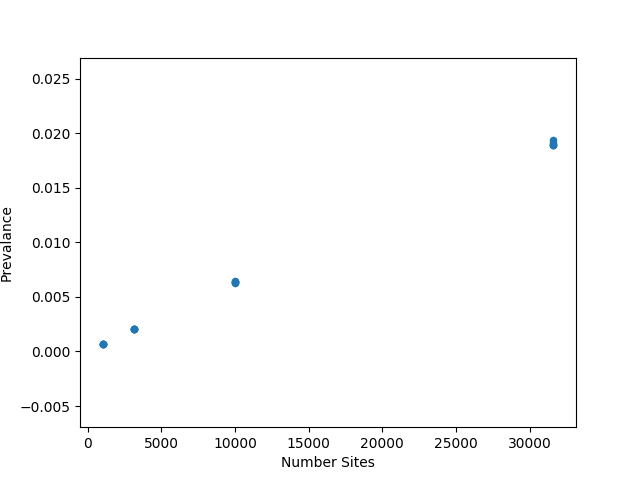
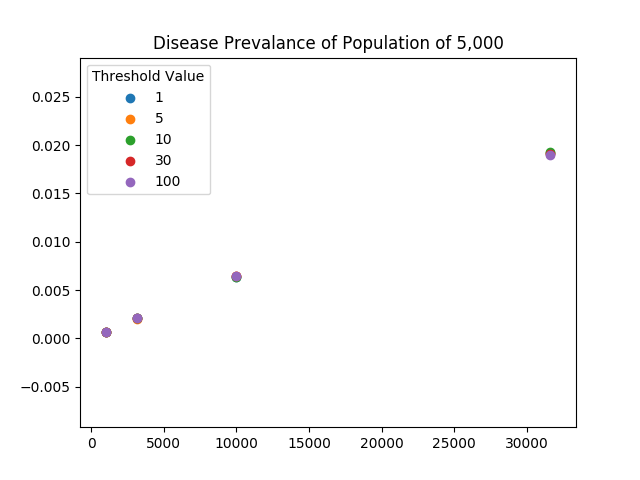
updates

diff --git a/lower_threshold_project/pop_5000/test.py b/lower_threshold_project/pop_5000/test.py
@@ -2,8 +2,33 @@ import pandas as pd
 import matplotlib.pyplot as plt
 
 df = pd.read_csv("summary.csv", sep=",", header=0, index_col = 0)
-groups = df.groupby("Threshold")
+groups = df.sort_values(by=['Number Sites'], ascending=False).groupby("Threshold")
+markers = ["o", "v", "*", "p"]
+colors = ["red", "blue", "orange", "yellow", "green"]
+
+j = 0
 for name, group in groups:
-    plt.scatter(group["Number Sites"], group["Prevalance"], marker="o", label=name)
+    plt.scatter(group["Number Sites"], group["Prevalance"], marker="o", label=name, color=colors[j])
+    j += 1
 plt.legend(title="Threshold Value")
-plt.savefig('plot_test.png')
+plt.savefig('plot_main.png')
+
+fig, ax = plt.subplots()
+j = 0
+for name, group in groups:
+	print(group)
+	for i in markers:
+		#assign different value to every Number of Site and a color for every threshold value 
+		scatter = ax.scatter(group["Risk"], group["Prevalance"], marker=i, label=name, color=colors[j])
+	j += 1
+
+#legend_elements = [plt.lines([0], [0], color='b', lw=4, label='Threshold 1'),
+#                   Line2D([0], [0], marker='o', color='w', label='Scatter',
+#                          markerfacecolor='g', markersize=15),
+#                   Patch(facecolor='orange', edgecolor='r',
+#                         label='Color Patch')]
+legend1= ax.legend(["T", "T2", "T3", "T4","T5"], title ="Threshold", loc="center right")
+legend2 = ax.legend(["31622", "10000", "3162", "1000"], title ="Number of Sites", loc="lower right")
+ax.add_artist(legend1)
+ax.add_artist(legend2)
+plt.savefig('plot_risk_prev.png')
